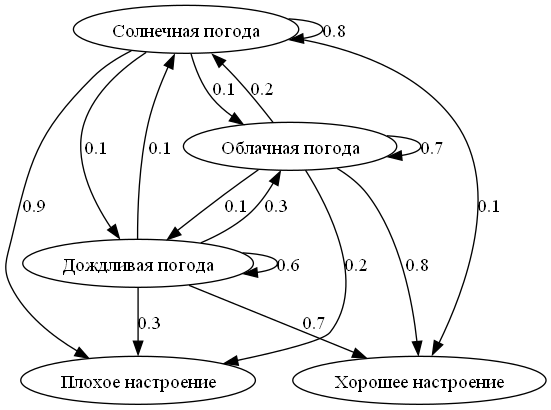
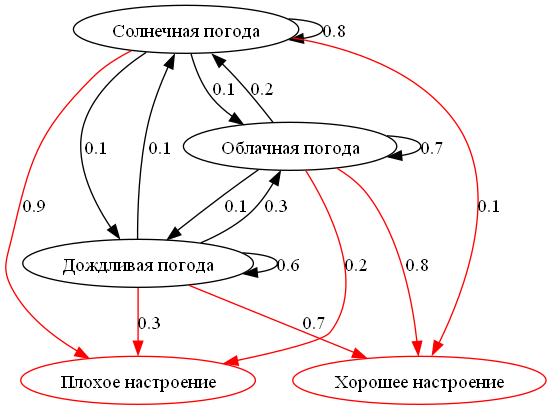
edit hmm render method

diff --git a/hmm.py b/hmm.py
@@ -123,7 +123,7 @@ class HiddenMarkovModel:
 
         n_observes = self.emission_matrix.shape[1]
         for i in range(n_observes):
-            dot.node(str(i+n_states), label=str(self.observations[i]))
+            dot.node(str(i+n_states), label=str(self.observations[i]), color='red')
 
         for i in range(n_states):
             for j in range(n_observes):
@@ -131,7 +131,7 @@ class HiddenMarkovModel:
                 if emission > 0:
                     # dot.node_attr.update({'label': f'{self.states[i]}\nEmission: {emission}'})
                     # dot.edge_attr.update({'label': f'{self.states[j]}'})
-                    dot.edge(str(i), str(j+n_states), label=str(emission))
+                    dot.edge(str(i), str(j+n_states), label=str(emission), color='red')
 
                     
         dot.render(f'{save_path}', format=file_format, view=view)
